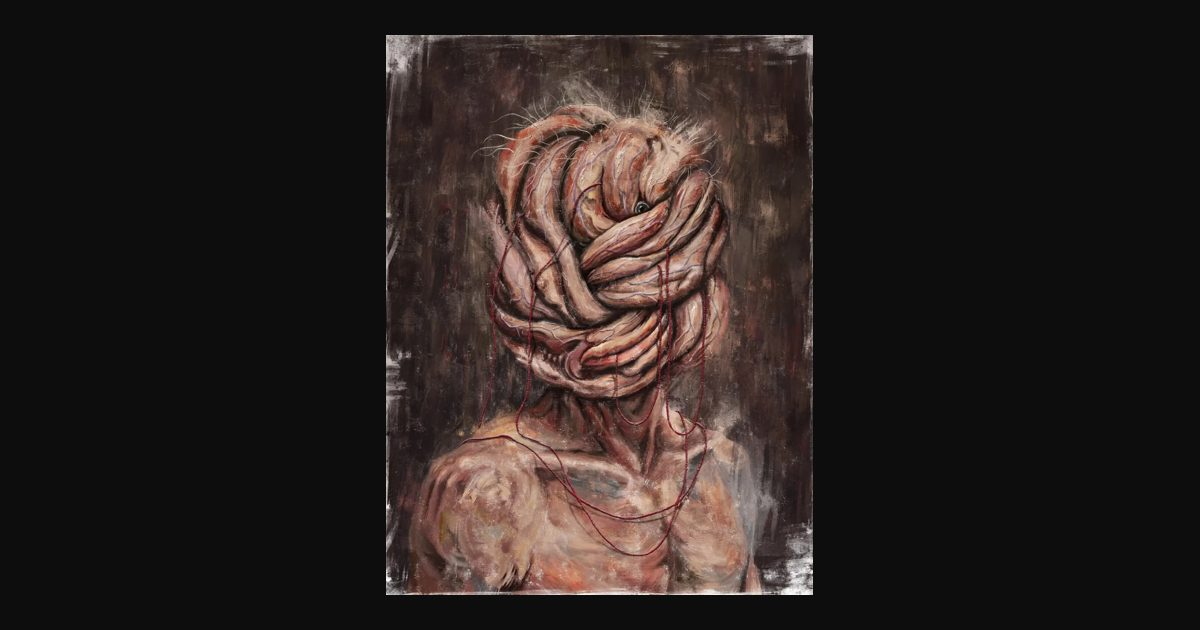
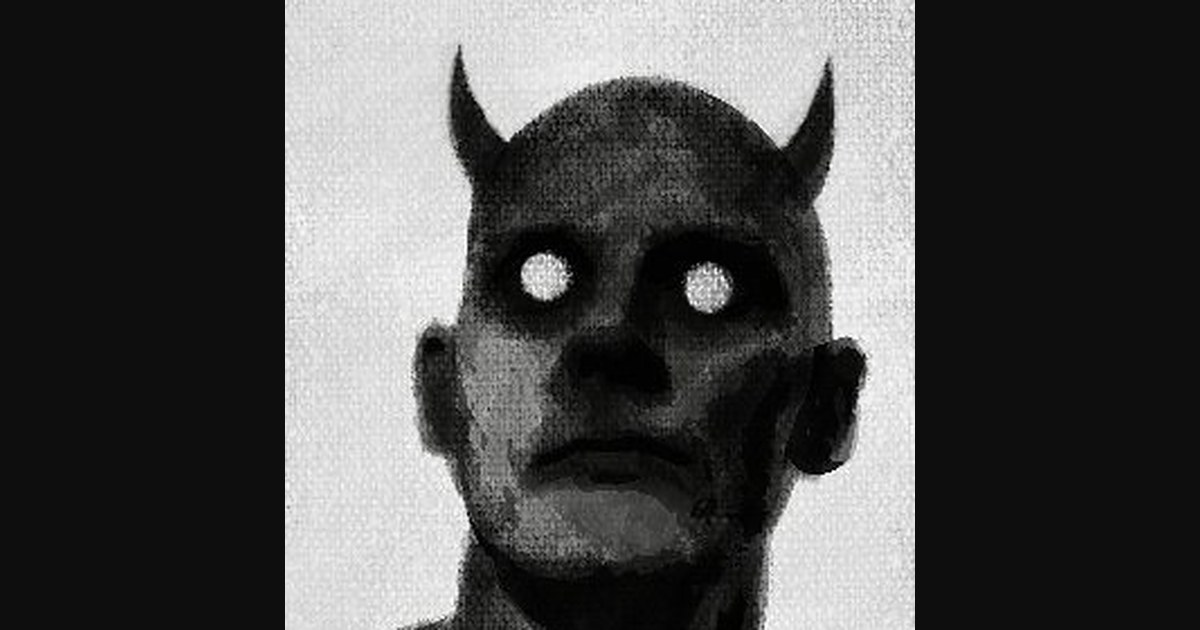
Deploy
Claude-Session: https://claude.ai/code/session_011NDG8e4LZDV2NiZTskbx2C

diff --git a/index.html b/index.html
@@ -20,8 +20,8 @@
 <meta property="og:type" content="website">
 <meta property="og:title" content="YEKTA | overthink(paint)ing">
 <meta property="og:description" content="YEKTA, digital painter and former art director. Conceptual paintings and interactive work, tied together by a single red thread.">
-<meta property="og:image" content="https://yektapour.com/img/og.jpg"><meta property="og:image:width" content="1200"><meta property="og:image:height" content="630"><meta property="og:image:alt" content="YEKTA">
-<meta name="twitter:card" content="summary_large_image"><meta name="twitter:title" content="YEKTA | overthink(paint)ing"><meta name="twitter:description" content="YEKTA, digital painter and former art director. Conceptual paintings and interactive work, tied together by a single red thread."><meta name="twitter:image" content="https://yektapour.com/img/og.jpg">
+<meta property="og:image" content="https://yektapour.com/img/og-yekta.jpg"><meta property="og:image:width" content="1200"><meta property="og:image:height" content="630"><meta property="og:image:alt" content="YEKTA">
+<meta name="twitter:card" content="summary_large_image"><meta name="twitter:title" content="YEKTA | overthink(paint)ing"><meta name="twitter:description" content="YEKTA, digital painter and former art director. Conceptual paintings and interactive work, tied together by a single red thread."><meta name="twitter:image" content="https://yektapour.com/img/og-yekta.jpg">
   <script type="module" crossorigin src="./assets/index-Dcmu5Q_N.js"></script>
   <link rel="stylesheet" crossorigin href="./assets/style-BtYKf9Rd.css">
 <link rel="canonical" href="https://yektapour.com/">
